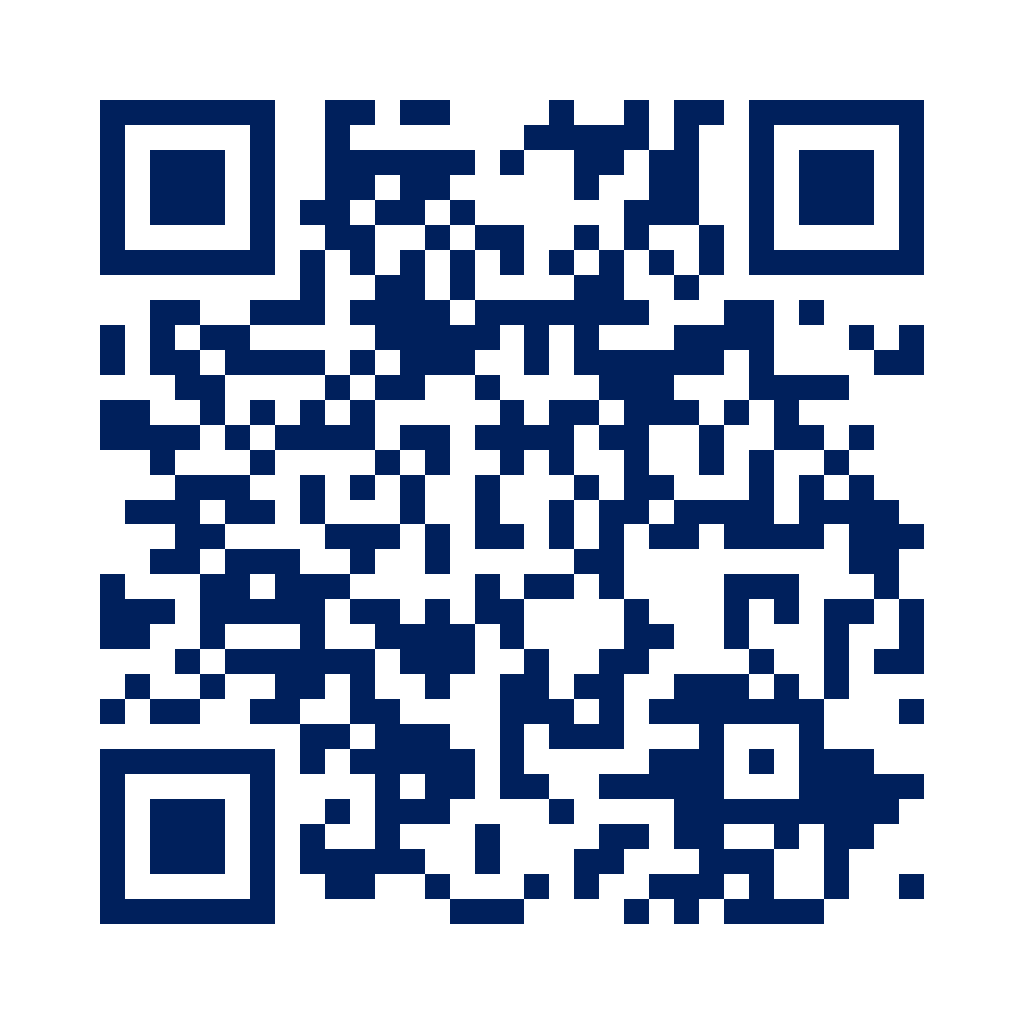
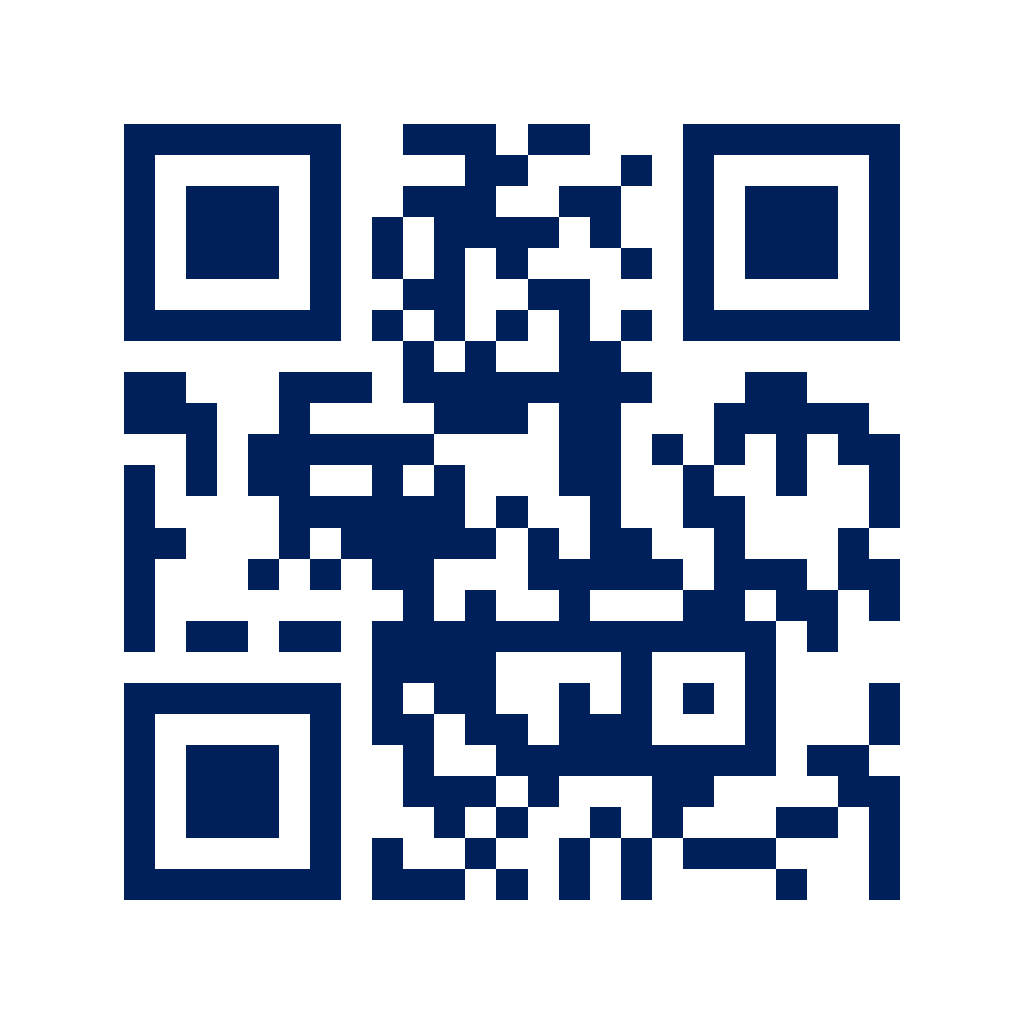
fix: route Brahm QR to landing page

diff --git a/src/app/[locale]/agents/[slug]/page.tsx b/src/app/[locale]/agents/[slug]/page.tsx
@@ -15,6 +15,7 @@ import { createPageMetadata } from "@/lib/metadata";
 import { getSeoPagesForAgent } from "@/lib/seo-content";
 import { agency, agents, getAgentBySlug, primaryProducerSlug } from "@/lib/site-data";
 import { createBreadcrumbSchema, organizationSchema } from "@/lib/seo";
+import { getAgentQrDestination } from "@/lib/agent-qr";
 import { buildTrackedHref } from "@/lib/tracking";
 import { absoluteUrl } from "@/lib/utils";
 
@@ -61,14 +62,7 @@ export default async function AgentPage({ params, searchParams }: AgentPageProps
   const tBio = await getTranslations("agents.bios");
   const agentBio = tBio(agent.slug);
   const entryPoint = typeof query.entry === "string" ? query.entry : undefined;
-  const directPageEntry =
-    agent.slug === primaryProducerSlug ? "primary-producer-team-card" : "qr-profile";
-  const directPageUrl = absoluteUrl(
-    buildTrackedHref(`/agents/${agent.slug}`, {
-      agent: agent.slug,
-      entry: directPageEntry,
-    }),
-  );
+  const qrDestination = getAgentQrDestination(agent.slug);
 
   const familyName = agent.name.split(" ").slice(1).join(" ") || undefined;
   const personSchema = {
@@ -239,15 +233,19 @@ export default async function AgentPage({ params, searchParams }: AgentPageProps
                       Direct link
                     </p>
                     <h2 className="mt-3 font-display text-3xl font-extrabold leading-tight text-gray-900">
-                      Scan to visit {agent.firstName}&apos;s page
+                      {qrDestination.isMainLandingPage
+                        ? "Scan to visit the main Allsberry site"
+                        : `Scan to visit ${agent.firstName}'s page`}
                     </h2>
                     <p className="mt-3 text-sm leading-7 text-gray-600">
-                      Opens the tracked profile page for print, cards, and follow-up.
+                      {qrDestination.isMainLandingPage
+                        ? "Opens the main landing page for print, cards, and follow-up."
+                        : "Opens the tracked profile page for print, cards, and follow-up."}
                     </p>
                   </div>
                   <div className="mx-auto rounded-[1.35rem] border border-gray-100 bg-gray-50 p-3 sm:mx-0">
                     <QRCodeSVG
-                      value={directPageUrl}
+                      value={qrDestination.absoluteUrl}
                       size={150}
                       fgColor="#00205C"
                       bgColor="#ffffff"
@@ -269,7 +267,7 @@ export default async function AgentPage({ params, searchParams }: AgentPageProps
                   </Link>
                   <p className="inline-flex items-center gap-2 text-sm font-medium text-gray-400">
                     <QrCode className="h-4 w-4 text-blue" />
-                    Tracked profile QR
+                    {qrDestination.entryLabel}
                   </p>
                 </div>
               </article>
@@ -284,16 +282,16 @@ export default async function AgentPage({ params, searchParams }: AgentPageProps
                 <h2 className="mt-3 font-display text-3xl font-extrabold text-gray-900">
                   What to expect
                 </h2>
-                <div className="mt-5 divide-y divide-gray-100 rounded-[1.25rem] border border-gray-100 bg-white/85 px-4">
-                  <p className="py-4 text-sm leading-7 text-gray-600">
+                <div className="mt-5 divide-y divide-[#c8d1dc] rounded-[1.25rem] border border-[#d7dee8] bg-white/85 px-4">
+                  <p className="py-4 text-sm leading-7 text-[#26394f]">
                     Call, email, or fill out the form below and {agent.firstName} will follow up
                     within one business day.
                   </p>
-                  <p className="py-4 text-sm leading-7 text-gray-600">
+                  <p className="py-4 text-sm leading-7 text-[#26394f]">
                     {agent.firstName} will review your situation, explain your options in plain
                     language, and help you compare coverage side by side.
                   </p>
-                  <p className="py-4 text-sm leading-7 text-gray-600">
+                  <p className="py-4 text-sm leading-7 text-[#26394f]">
                     Once you choose a plan, {agent.firstName} stays with you through binding,
                     renewals, and any claims that come up.
                   </p>

diff --git a/src/components/team/attribution-workbench.tsx b/src/components/team/attribution-workbench.tsx
@@ -84,7 +84,7 @@ export function AttributionWorkbench({ agents }: AttributionWorkbenchProps) {
       .map((agent) => {
         return [
           `${agent.name} — ${agent.title}`,
-          `Profile: ${agent.directUrl}`,
+          `Landing / QR: ${agent.directUrl}`,
           `Quote: ${agent.quoteUrl}`,
           `Proof: ${agent.proofUrl}`,
         ].join("\n");
@@ -236,9 +236,9 @@ export function AttributionWorkbench({ agents }: AttributionWorkbenchProps) {
           Agent link builder
         </div>
         <p className="mt-3 max-w-3xl text-sm leading-7 text-gray-600">
-          These are the clean tracked URLs the team can use in texts, emails, QR codes, or print
-          materials. Each one carries the agent plus a readable entry point so the follow-up path
-          stays obvious.
+          These are the clean URLs the team can use in texts, emails, QR codes, or print
+          materials. Agent profile QR links carry the agent plus a readable entry point; Brahm&apos;s
+          business-card QR intentionally opens the main landing page.
         </p>
 
         <div className="mt-8 grid gap-6 lg:grid-cols-3">
@@ -268,7 +268,7 @@ export function AttributionWorkbench({ agents }: AttributionWorkbenchProps) {
               <div className="mt-5 grid gap-3">
                 <LinkRow
                   copied={copiedKey === `${agent.slug}-profile`}
-                  label="Direct profile / QR"
+                  label="Landing / QR"
                   value={agent.directUrl}
                   onCopy={() => copyText(agent.directUrl, `${agent.slug}-profile`)}
                 />

diff --git a/src/app/[locale]/team-attribution/page.tsx b/src/app/[locale]/team-attribution/page.tsx
@@ -3,6 +3,7 @@ import { setRequestLocale } from "next-intl/server";
 
 import { AttributionWorkbench } from "@/components/team/attribution-workbench";
 import { SectionHeading } from "@/components/ui/section-heading";
+import { getAgentQrDestination } from "@/lib/agent-qr";
 import { createPageMetadata } from "@/lib/metadata";
 import { agents, primaryProducerSlug } from "@/lib/site-data";
 import { buildTrackedHref } from "@/lib/tracking";
@@ -29,12 +30,7 @@ export async function generateMetadata({ params }: TeamAttributionPageProps): Pr
 }
 
 const agentLinkSets = agents.map((agent) => ({
-  directUrl: absoluteUrl(
-    buildTrackedHref(`/agents/${agent.slug}`, {
-      agent: agent.slug,
-      entry: agent.slug === primaryProducerSlug ? "primary-producer-team-card" : "qr-profile",
-    }),
-  ),
+  directUrl: getAgentQrDestination(agent.slug).absoluteUrl,
   name: agent.name,
   proofUrl: absoluteUrl(
     buildTrackedHref("/evidence-of-insurance", {

diff --git a/src/lib/agent-qr.ts b/src/lib/agent-qr.ts
@@ -1,0 +1,29 @@
+import type { AgentSlug } from "@/lib/site-data";
+import { buildTrackedHref } from "@/lib/tracking";
+import { absoluteUrl } from "@/lib/utils";
+
+export type AgentQrDestination = {
+  absoluteUrl: string;
+  entryLabel: string;
+  href: string;
+  isMainLandingPage: boolean;
+};
+
+const mainLandingQrAgents = new Set<AgentSlug>(["brahm"]);
+
+export function getAgentQrDestination(agentSlug: AgentSlug): AgentQrDestination {
+  const isMainLandingPage = mainLandingQrAgents.has(agentSlug);
+  const href = isMainLandingPage
+    ? "/"
+    : buildTrackedHref(`/agents/${agentSlug}`, {
+        agent: agentSlug,
+        entry: "qr-profile",
+      });
+
+  return {
+    absoluteUrl: absoluteUrl(href),
+    entryLabel: isMainLandingPage ? "Main landing QR" : "Tracked profile QR",
+    href,
+    isMainLandingPage,
+  };
+}
